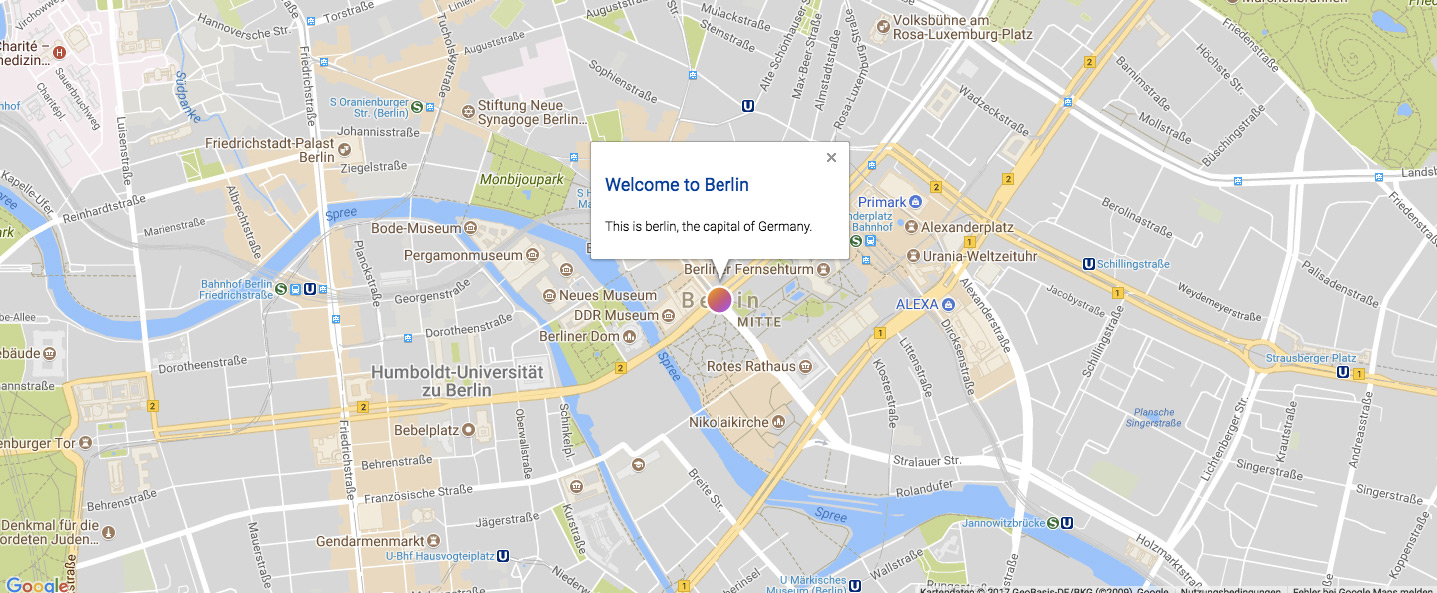
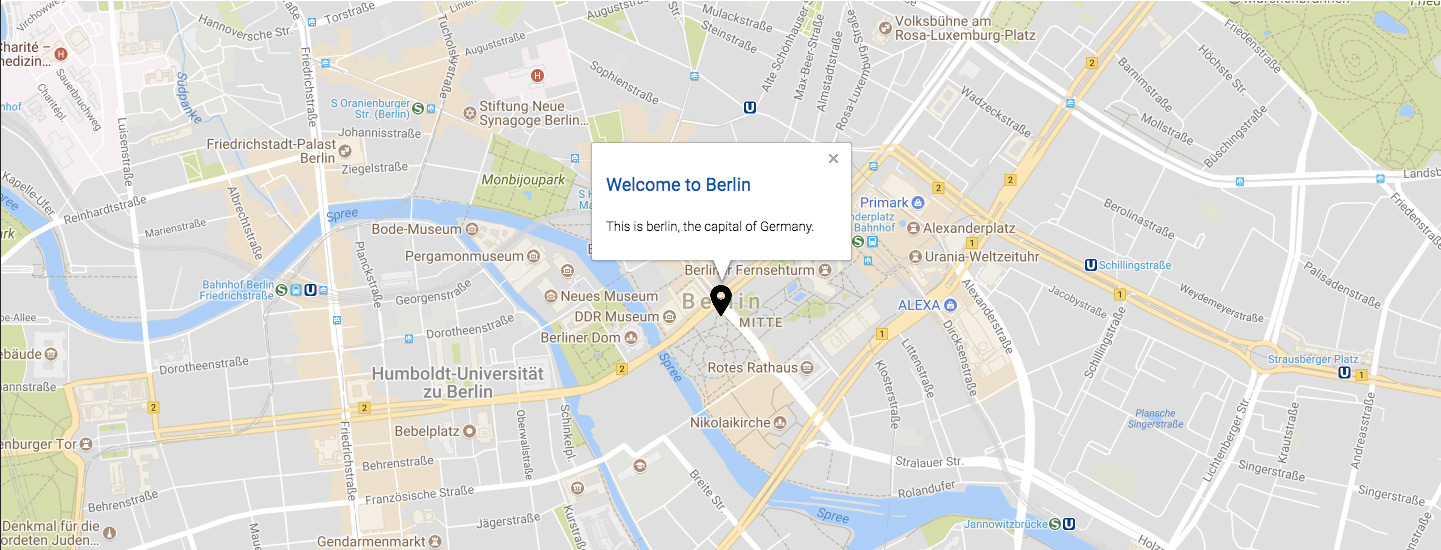
refactor(MapGoogle): Refactored code and added new screenshots

diff --git a/Components/MapGoogle/functions.php b/Components/MapGoogle/functions.php
@@ -20,8 +20,6 @@ add_action('wp_enqueue_scripts', function () {
 add_filter('Flynt/addComponentData?name=MapGoogle', function ($data) {
     if (!empty($data['infoContent'])) {
         $data['infoContent'] = htmlspecialchars(json_encode($data['infoContent']));
-    } else {
-        $data['infoContent'] = false;
     }
 
     $data['markerIcon'] = Asset::requireUrl('Components/MapGoogle/assets/marker.svg');
